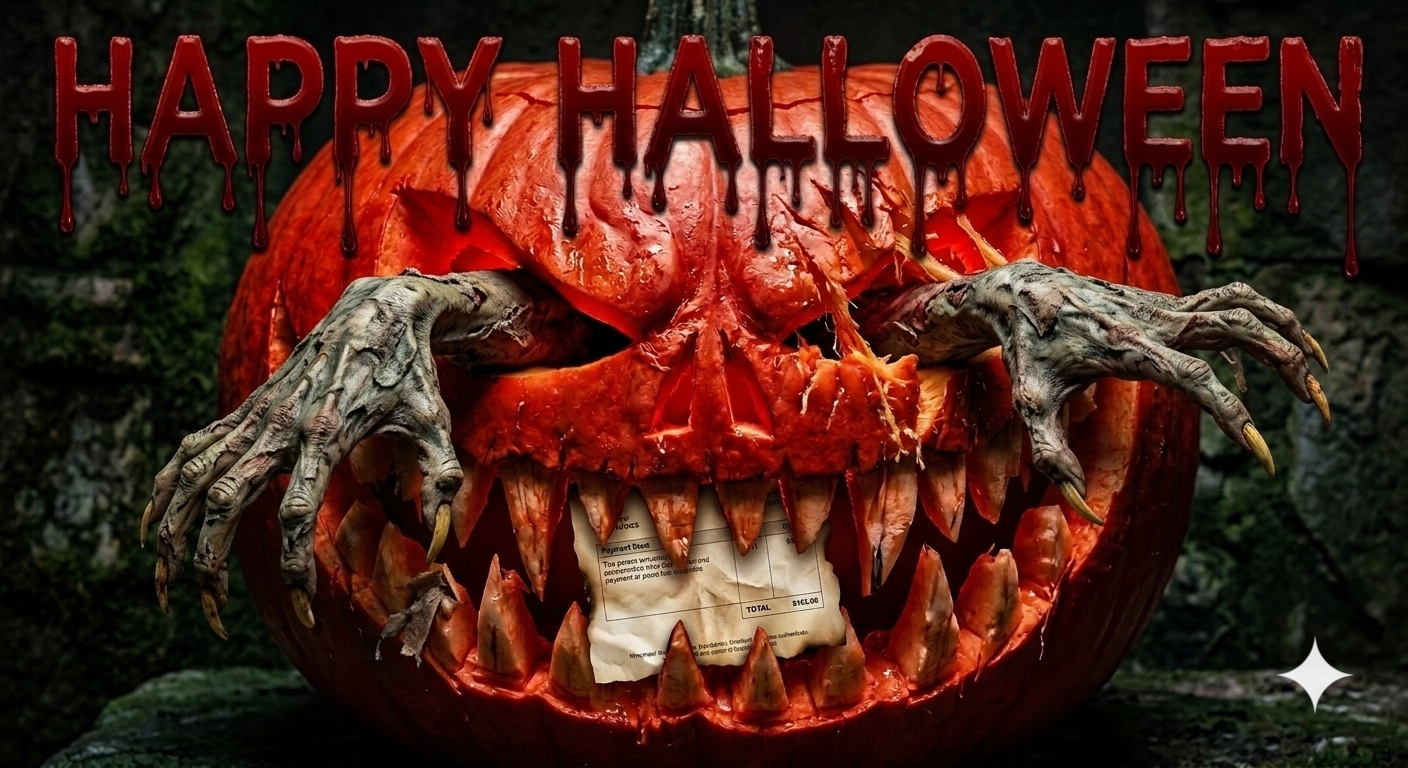
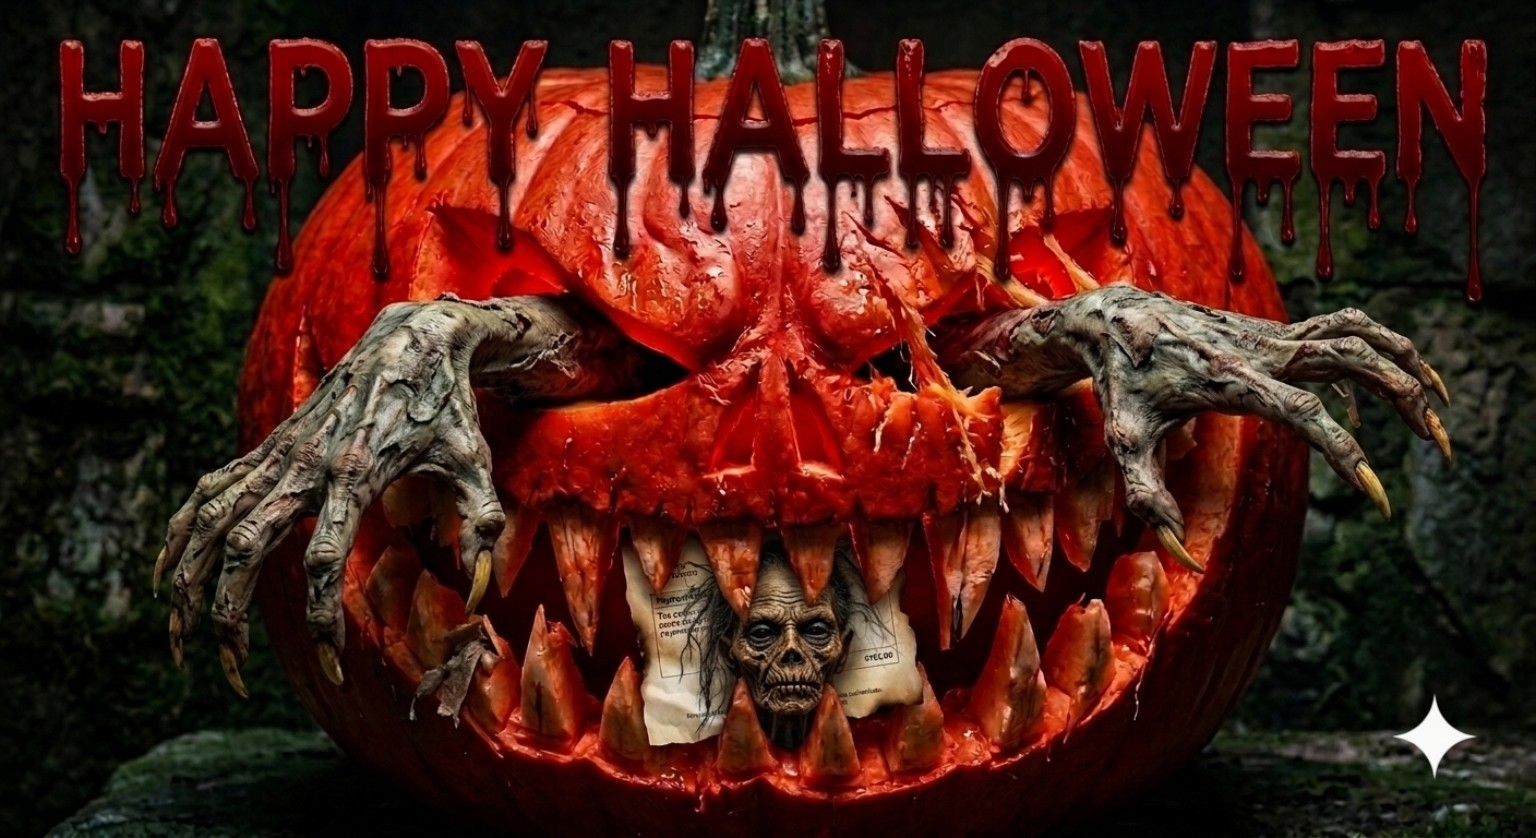
Add files via upload

diff --git a/lunatic_fringe/halloween_pumpkin.html b/lunatic_fringe/halloween_pumpkin.html
@@ -1,0 +1,130 @@
+<!doctype html>
+<html lang="en">
+<head>
+<meta charset="utf-8">
+<meta name="viewport" content="width=device-width, initial-scale=1">
+<title>Exploding Pumpkin | Quote Challenge</title>
+<style>
+*{box-sizing:border-box}
+body{margin:0;min-height:100vh;background:#090608;color:#fff;font-family:Georgia,serif;padding:24px 12px 55px}
+main{max-width:1000px;margin:auto;text-align:center}
+h1{font-size:clamp(30px,6vw,60px);color:#bd1820;text-shadow:0 0 16px #7a0808;margin:8px 0 18px}
+.pumpkin-stage{position:relative;width:100%;aspect-ratio:1536/838;overflow:hidden;border:5px ridge #ad7930;background:#080508;box-shadow:0 0 28px #6e1318;cursor:pointer;touch-action:manipulation}
+.pumpkin-stage>img,.pumpkin-stage>canvas{position:absolute;inset:0;width:100%;height:100%;display:block}
+.pumpkin-stage>img{object-fit:fill}
+.pumpkin-stage>canvas{pointer-events:none}
+.pumpkin-stage:focus-visible{outline:3px solid #ffcc66;outline-offset:4px}
+.instructions{color:#f1c780;font:600 14px system-ui,sans-serif;letter-spacing:.08em;margin:14px 0 32px;text-transform:uppercase}
+.gallery{display:grid;grid-template-columns:repeat(3,minmax(0,1fr));gap:16px;margin:22px 0}
+.hanging-frame{border:0;padding:0;background:#1b1316;cursor:pointer;aspect-ratio:4/3;overflow:hidden;position:relative}
+.hanging-frame img{width:100%;height:100%;object-fit:cover;display:block}
+.hanging-frame:focus-visible{outline:3px solid #ffcc66}
+.missing-label{display:none;position:absolute;inset:0;align-items:center;justify-content:center;padding:12px;color:#e9c680;font:13px system-ui,sans-serif}
+.hanging-frame.missing .missing-label{display:flex}
+.hanging-frame.missing img{display:none}
+.viewer{border:2px solid #b88a44;background:#080608;color:white;padding:45px 15px 15px;max-width:95vw;max-height:95vh}
+.viewer::backdrop{background:rgba(0,0,0,.85)}
+.viewer img{display:block;max-width:88vw;max-height:78vh;object-fit:contain}
+.close{position:absolute;right:8px;top:7px;background:#4b141a;color:#fff;border:1px solid #d7a15e;padding:7px 12px;cursor:pointer}
+@media(max-width:600px){.gallery{grid-template-columns:repeat(2,minmax(0,1fr));gap:9px}}
+</style>
+</head>
+<body>
+<main>
+<h1>Happy Halloween!</h1>
+<div class="pumpkin-stage" id="explosion-box" role="button" tabindex="0" aria-label="Explode the pumpkin">
+  <img id="pumpkin-img" src="gemini_remix_20261030_162706.jpg" alt="Giant terrifying Halloween pumpkin">
+  <canvas id="shatter" aria-hidden="true"></canvas>
+</div>
+<p class="instructions" id="instructions">Click the pumpkin to explode it!</p>
+<div class="gallery" aria-label="Lunatic Fringe gallery">
+  <button class="hanging-frame" type="button" aria-label="Enlarge gallery picture 1"><img src="gemini_remix_20261021_234409.jpg" alt="Gallery picture 1" loading="lazy"><span class="missing-label">Picture 1 not found</span></button>
+  <button class="hanging-frame" type="button" aria-label="Enlarge gallery picture 2"><img src="gemini_remix_20261021_232243.jpg" alt="Gallery picture 2" loading="lazy"><span class="missing-label">Picture 2 not found</span></button>
+  <button class="hanging-frame" type="button" aria-label="Enlarge gallery picture 3"><img src="image_eadaddeb.jpg" alt="Gallery picture 3" loading="lazy"><span class="missing-label">Picture 3 not found</span></button>
+  <button class="hanging-frame" type="button" aria-label="Enlarge gallery picture 4"><img src="gemini_remix_20261021_232703.jpg" alt="Gallery picture 4" loading="lazy"><span class="missing-label">Picture 4 not found</span></button>
+  <button class="hanging-frame" type="button" aria-label="Enlarge gallery picture 5"><img src="image_7e6db39.jpg" alt="Gallery picture 5" loading="lazy"><span class="missing-label">Picture 5 not found</span></button>
+  <button class="hanging-frame" type="button" aria-label="Enlarge gallery picture 6"><img src="image_7e6db39.jpg" alt="Gallery picture 6" loading="lazy"><span class="missing-label">Picture 6 not found</span></button>
+</div>
+</main>
+<dialog class="viewer" aria-label="Enlarged gallery picture"><button class="close" type="button" aria-label="Close enlarged picture">Close ×</button><img alt="Enlarged gallery picture"></dialog>
+<script>
+(() => {
+  const stage = document.getElementById('explosion-box');
+  const img = document.getElementById('pumpkin-img');
+  const canvas = document.getElementById('shatter');
+  const ctx = canvas.getContext('2d');
+  const instructions = document.getElementById('instructions');
+  let busy = false;
+  let frameId = 0;
+  let resetTimer = 0;
+
+  function explode() {
+    if (busy || !img.complete || !img.naturalWidth) return;
+    busy = true;
+    const w = stage.clientWidth, h = stage.clientHeight;
+    const dpr = Math.min(window.devicePixelRatio || 1, 2);
+    canvas.width = Math.round(w * dpr);
+    canvas.height = Math.round(h * dpr);
+    ctx.setTransform(dpr, 0, 0, dpr, 0, 0);
+    const cols = 9, rows = 6;
+    const sw = img.naturalWidth / cols, sh = img.naturalHeight / rows;
+    const pw = w / cols, ph = h / rows;
+    const pieces = [];
+    for (let r = 0; r < rows; r++) {
+      for (let c = 0; c < cols; c++) {
+        const cx = (c + .5) * pw, cy = (r + .5) * ph;
+        const angle = Math.atan2(cy - h * .5, cx - w * .5);
+        const speed = 180 + Math.random() * 260;
+        pieces.push({sx:c*sw,sy:r*sh,x:cx,y:cy,vx:Math.cos(angle)*speed+(Math.random()-.5)*140,vy:Math.sin(angle)*speed-100-Math.random()*160,rot:0,vr:(Math.random()-.5)*7,landed:false});
+      }
+    }
+    img.style.visibility = 'hidden';
+    instructions.textContent = 'Pumpkin wreckage! Rebuilding in 12 seconds...';
+    const start = performance.now();
+    let last = start;
+    function animate(now) {
+      const dt = Math.min((now-last)/1000,.035); last=now;
+      ctx.clearRect(0,0,w,h);
+      for (const p of pieces) {
+        if (!p.landed) {
+          p.vy += 680*dt;
+          p.x += p.vx*dt;
+          p.y += p.vy*dt;
+          p.rot += p.vr*dt;
+          if (p.y + ph*.45 >= h) {p.y=h-ph*.45;p.landed=true;}
+          p.x=Math.max(-pw*.1,Math.min(w+pw*.1,p.x));
+        }
+        ctx.save();ctx.translate(p.x,p.y);ctx.rotate(p.rot);
+        ctx.drawImage(img,p.sx,p.sy,sw+.2,sh+.2,-pw/2,-ph/2,pw+1,ph+1);
+        ctx.restore();
+      }
+      if (now-start < 12000) frameId=requestAnimationFrame(animate);
+    }
+    frameId=requestAnimationFrame(animate);
+    resetTimer=setTimeout(() => {
+      cancelAnimationFrame(frameId);
+      ctx.clearRect(0,0,w,h);
+      img.style.visibility='visible';
+      instructions.textContent='Click the pumpkin to explode it!';
+      busy=false;
+    },12000);
+  }
+  stage.addEventListener('click',explode);
+  stage.addEventListener('keydown',e=>{if(e.key==='Enter'||e.key===' '){e.preventDefault();explode();}});
+  const viewer=document.querySelector('.viewer');
+  const enlarged=viewer.querySelector('img');
+  document.querySelectorAll('.hanging-frame').forEach(button=>{
+    const photo=button.querySelector('img');
+    photo.addEventListener('error',()=>button.classList.add('missing'));
+    button.addEventListener('click',()=>{
+      if (!photo.complete || !photo.naturalWidth) return;
+      enlarged.src=photo.src;enlarged.alt=photo.alt;
+      viewer.showModal();
+    });
+  });
+  viewer.querySelector('.close').addEventListener('click',()=>viewer.close());
+  viewer.addEventListener('click',e=>{if(e.target===viewer)viewer.close();});
+})();
+</script>
+</body>
+</html>
